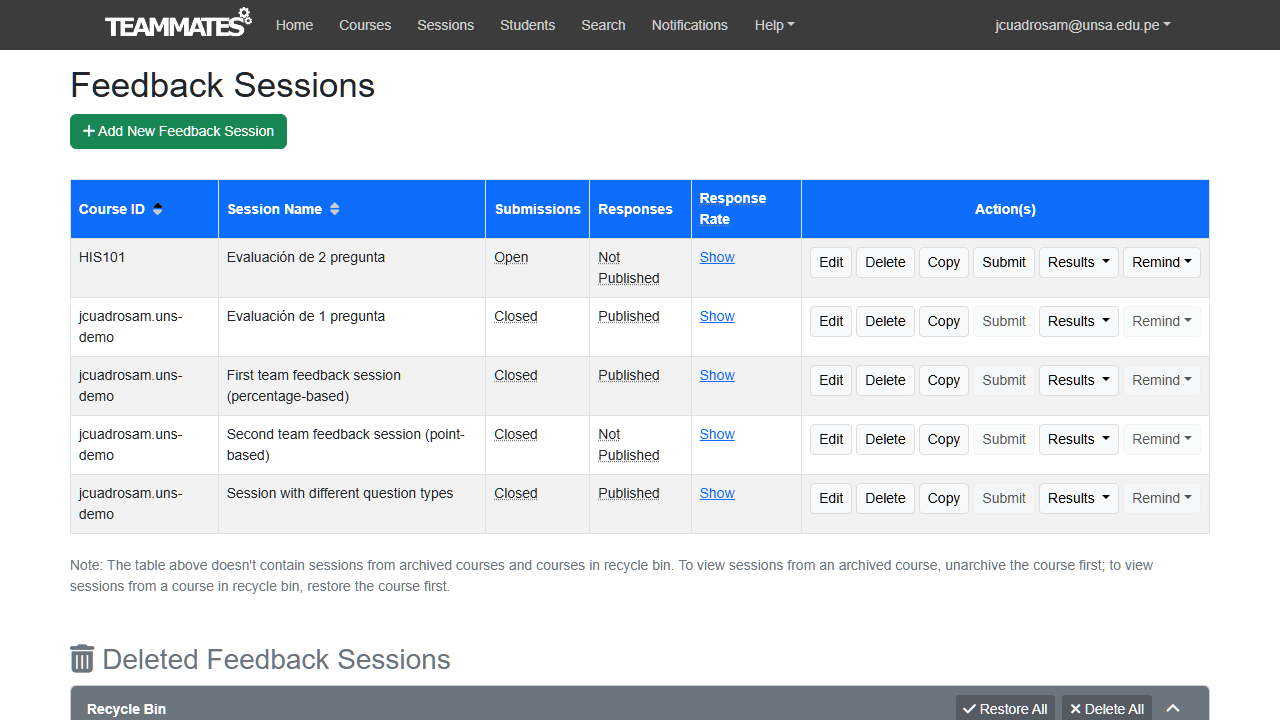
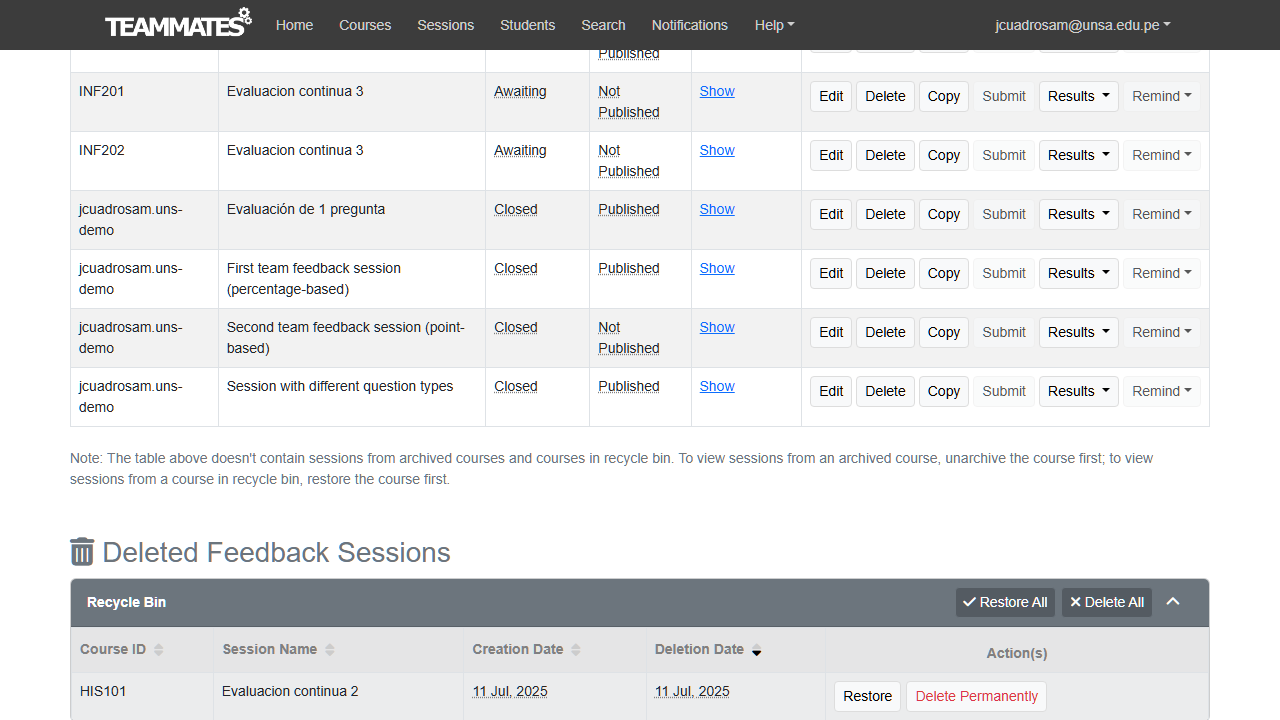
Subida de rf08.8

diff --git a/tests/gestion_retroalimentacion/rf08.7.spec.ts b/tests/gestion_retroalimentacion/rf08.7.spec.ts
@@ -1,0 +1,58 @@
+import { test, expect } from '@playwright/test';
+import { isAuthValid } from '../../scripts/checkAuth.js';
+import { CargaCompleta } from '../../utils/Carga_completa.ts';
+import { Guardar_imagen } from '../../utils/Guardar_imagen.ts';
+import { esperaTiempo } from '../../utils/esperaTiempo.ts';
+import path from 'path';
+
+const storagePath = path.resolve('auth/storageState.json');
+const urlBase = 'https://teammates-orugas.appspot.com/';
+const nombre = "rf08.7";
+const carpetaBase = path.join("capturas","gestion_retroalimentacion",nombre);
+
+
+// validar el login inicial
+test.beforeAll(() => {
+  	if (! isAuthValid(storagePath)) {
+    	throw new Error(
+      	'❌ La sesion de Google ha expirado o no existe. ' +
+      	'Ejecuta `node scripts/saveAuth.js` para regenerar auth/storageState.json'
+    	);
+  	}
+});
+
+// configurar contexto
+test.use({
+  	storageState: storagePath
+});
+
+// Empezar los tests
+test.only('rf08.7-01 (Restaurar correctamente una sesión eliminada) [Casos de Uso]', async ({ page }) => {
+    const contador = { valor: 0 };
+    const casosPrueba = "rf08.7-01";
+
+    // 1. Cargar la pagina inicial
+    await page.goto(urlBase + 'web/instructor/home'); //url inicial
+    await CargaCompleta(page); // Esperar carga 
+    await Guardar_imagen(page, carpetaBase, contador, casosPrueba); 
+    await expect(page.locator('a', { hasText: 'Sessions' })).toBeVisible(); 
+
+    // 2. Carga feedback
+    await page.click('text=Sessions'); //hacer click
+    const expandBtn = page.locator('#deleted-sessions-heading button.chevron');
+    await expect(expandBtn).toBeVisible();
+    await expandBtn.click();
+
+    // 3. Resultados
+    await esperaTiempo(1500);
+    await Guardar_imagen(page, carpetaBase, contador, casosPrueba);   
+    await expect(page.locator('#btn-restore-0')).toBeVisible();
+    await page.click('#btn-restore-0');
+
+    // 4. Respuesta 
+    await esperaTiempo(1500);
+    const mensaje = await page.locator('div.toast-body').innerText();
+    await Guardar_imagen(page, carpetaBase, contador, casosPrueba);
+    expect(mensaje).toContain('has been restored');  
+
+});
